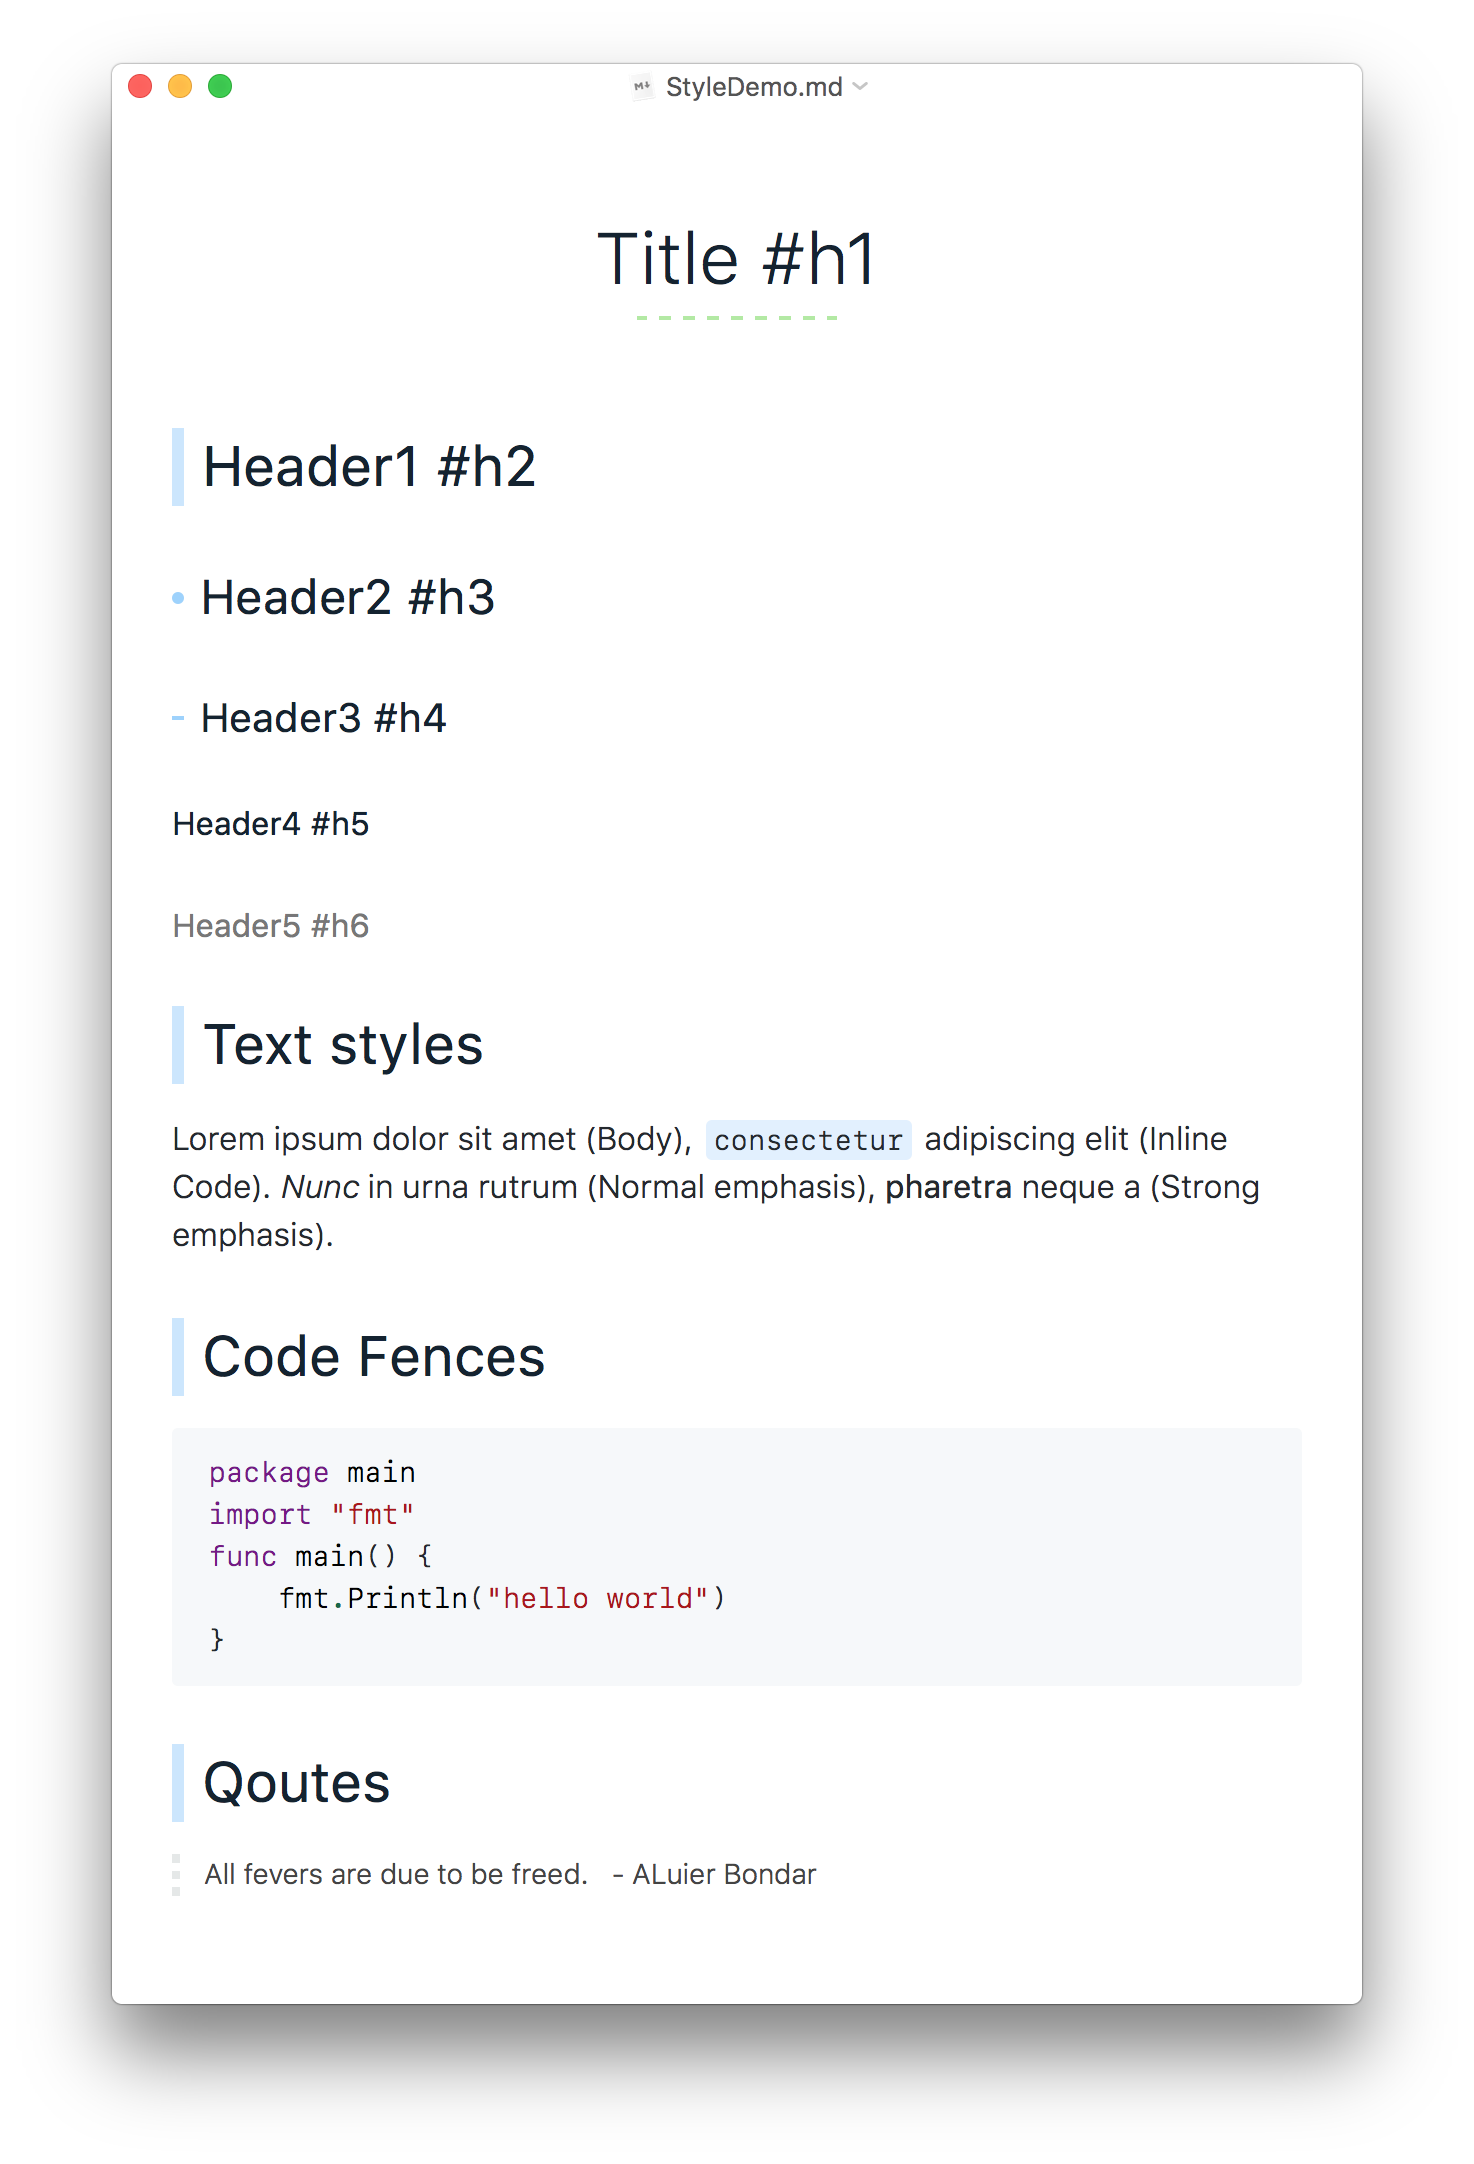
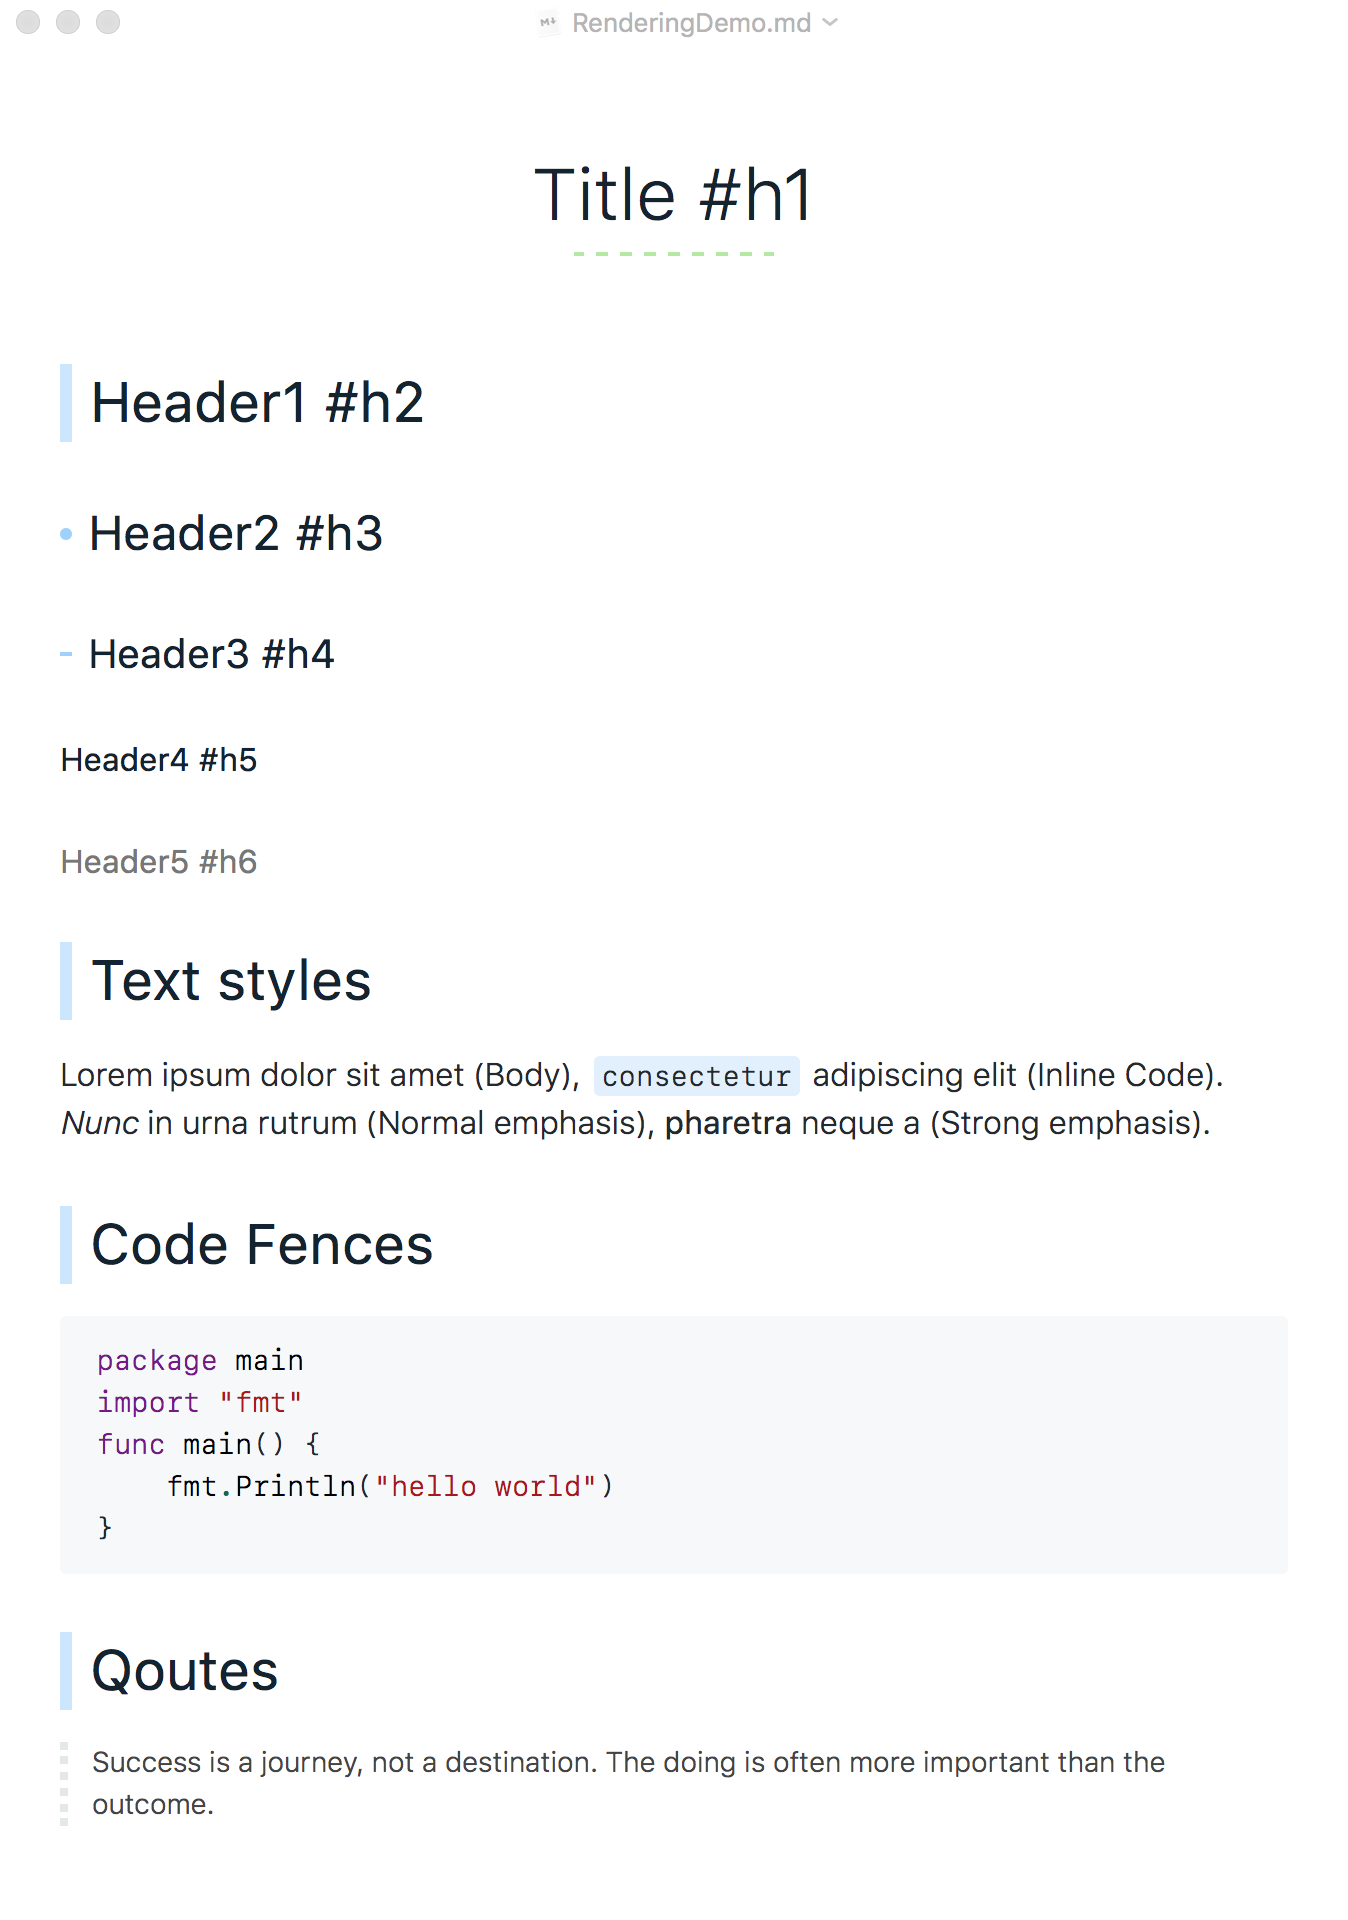
update: screenshot w/o shadow.

diff --git a/RenderingDemo.md b/RenderingDemo.md
@@ -26,4 +26,4 @@ func main() {
 
 ## Qoutes
 
-> All fevers are due to be freed.   - ALuier Bondar
+> Success is a journey, not a destination. The doing is often more important than the outcome.
